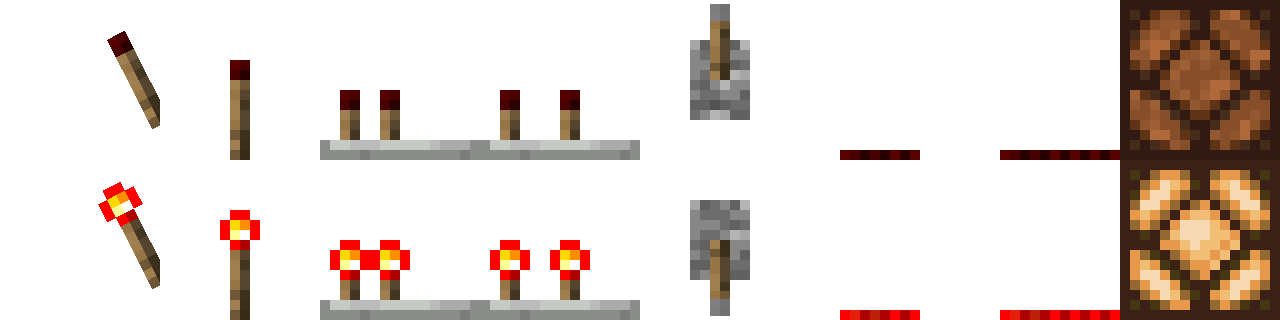
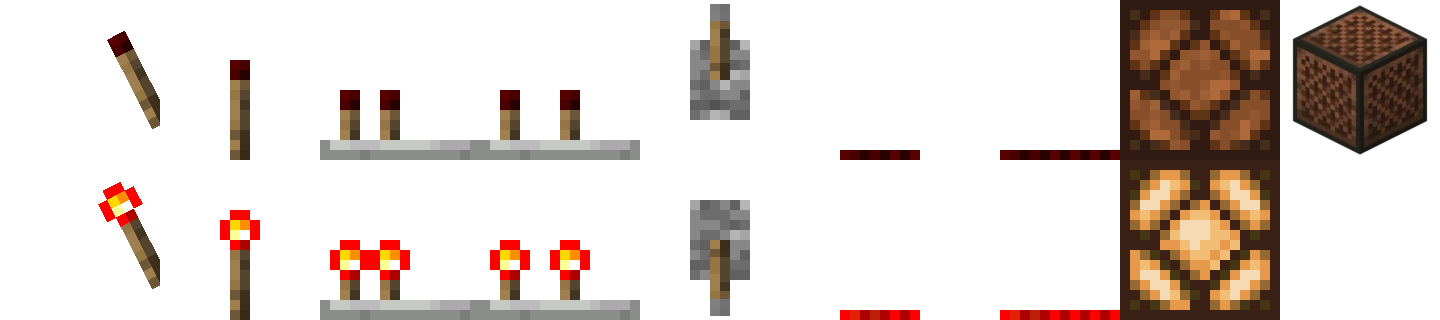
Optimize imports

diff --git a/src/main/java/me/melonboy10/midi2building/screenElements/GeneratorApplication.java b/src/main/java/me/melonboy10/midi2building/screenElements/GeneratorApplication.java
@@ -6,6 +6,7 @@ import javafx.application.Application;
 import javafx.geometry.HPos;
 import javafx.geometry.Insets;
 import javafx.geometry.VPos;
+import javafx.scene.Cursor;
 import javafx.scene.Scene;
 import javafx.scene.canvas.Canvas;
 import javafx.scene.effect.DropShadow;
@@ -20,6 +21,7 @@ import javafx.stage.FileChooser;
 import javafx.stage.Stage;
 import javafx.stage.StageStyle;
 import javafx.util.Duration;
+import me.melonboy10.midi2building.Main;
 import me.melonboy10.midi2building.conversion.Midi2BlockConversion;
 import me.melonboy10.midi2building.util.ResourceManager;
 
@@ -104,10 +106,12 @@ public class GeneratorApplication extends Application {
 
         // Makes the lever grow when moused over
         lever.addEventHandler(MouseEvent.MOUSE_ENTERED, mouseEvent -> {
-            getImageFromAtlas(lever,mousedLever,BlockAtlas.ZERO,lever.getIsOn());
+//            getImageFromAtlas(lever,mousedLever,BlockAtlas.ZERO,lever.getIsOn());
+            scene.setCursor(Cursor.HAND);
         });
         lever.addEventHandler(MouseEvent.MOUSE_EXITED, mouseEvent -> {
             getImageFromAtlas(lever,atlas,lever.getBlockAtlas(),lever.getIsOn());
+            scene.setCursor(Cursor.DEFAULT);
         });
 
         // Adds animations when the lever is clicked
@@ -115,18 +119,18 @@ public class GeneratorApplication extends Application {
             lever.toggle();
             int delay = lever.getIsOn() ? 100 : 0; // Yes, we made the redstone turn off faster than it turns on to match the game.
             Timeline timeline = new Timeline(
-                new KeyFrame(Duration.millis(0),   actionEvent -> lamp        .toggle()),
-                new KeyFrame(Duration.millis(100), actionEvent -> sideTorch   .toggle()),
-                new KeyFrame(Duration.millis(200), actionEvent -> dot         .toggle()),
-                new KeyFrame(Duration.millis(200), actionEvent -> pistonArm   .toggle()),
-                new KeyFrame(Duration.millis(200 + delay), actionEvent -> repeater1   .toggle()),
-                new KeyFrame(Duration.millis(300 + delay), actionEvent -> repeater2   .toggle()),
+                new KeyFrame(Duration.millis(0),   actionEvent -> lamp.toggle()),
+                new KeyFrame(Duration.millis(100), actionEvent -> sideTorch.toggle()),
+                new KeyFrame(Duration.millis(200), actionEvent -> dot.toggle()),
+                new KeyFrame(Duration.millis(200), actionEvent -> pistonArm.toggle()),
+                new KeyFrame(Duration.millis(200 + delay), actionEvent -> repeater1.toggle()),
+                new KeyFrame(Duration.millis(300 + delay), actionEvent -> repeater2.toggle()),
                 new KeyFrame(Duration.millis(400 + delay), actionEvent -> repeater_two.toggle()),
                 new KeyFrame(Duration.millis(500 + delay), actionEvent -> redstoneLine.toggle()),
-                new KeyFrame(Duration.millis(600 + delay), actionEvent -> bottomTorch .toggle()),
+                new KeyFrame(Duration.millis(600 + delay), actionEvent -> bottomTorch.toggle()),
                 new KeyFrame(Duration.millis(600 + delay), actionEvent -> repeater_two.toggle()),
                 new KeyFrame(Duration.millis(700 + delay), actionEvent -> redstoneLine.toggle()),
-                new KeyFrame(Duration.millis(800 + delay),actionEvent -> bottomTorch .toggle()));
+                new KeyFrame(Duration.millis(800 + delay),actionEvent -> bottomTorch.toggle()));
             timeline.play();
         });
 
@@ -199,6 +203,7 @@ public class GeneratorApplication extends Application {
             FileChooser fileChooser = new FileChooser();
             fileChooser.setTitle("Open Midi File");
             fileChooser.getExtensionFilters().addAll(new FileChooser.ExtensionFilter("Midi Files", "*.mid", "*.midi"));
+            fileChooser.setInitialDirectory(new File(new File(Main.class.getProtectionDomain().getCodeSource().getLocation().getFile()).getAbsoluteFile().getParentFile().getParentFile() + "/src/main/resources/defaultSongs"));
             File selectedFile = fileChooser.showOpenDialog(stage);
             if (selectedFile != null) {
                 try {

diff --git a/src/main/java/me/melonboy10/midi2building/conversion/MidiParser.java b/src/main/java/me/melonboy10/midi2building/conversion/MidiParser.java
@@ -1,12 +1,11 @@
 package me.melonboy10.midi2building.conversion;
 
-import me.melonboy10.midi2building.util.ResourceManager;
 import me.melonboy10.midi2building.util.SoundAtlas;
 
 import javax.sound.midi.*;
 import java.io.File;
 import java.io.IOException;
-import java.util.Collections;
+import java.util.ArrayList;
 import java.util.HashMap;
 
 public class MidiParser {
@@ -16,8 +15,9 @@ public class MidiParser {
 
     private File midiFile;
     private Sequence sequence;
-    private final HashMap<String, Integer> blockNumber = new HashMap<>();
-    private final HashMap<String, SoundAtlas> blockSound = new HashMap<>();
+    private final HashMap<String, Integer> noteCount = new HashMap<>();
+    private final HashMap<String, SoundAtlas> noteToSoundType = new HashMap<>();
+    private final ArrayList<Long> notes = new ArrayList<>();
 
     public MidiParser(File midiFile) throws InvalidMidiDataException, IOException {
         this.midiFile = midiFile;
@@ -26,21 +26,21 @@ public class MidiParser {
         for (Track track :  sequence.getTracks()) {
             for (int i = 0; i < track.size(); i++) {
                 MidiEvent event = track.get(i);
-//                System.out.print("@" + event.getTick() + " ");
                 MidiMessage message = event.getMessage();
                 if (message instanceof ShortMessage sm) {
 //                    System.out.print("Channel: " + sm.getChannel() + " ");
                     if (sm.getCommand() == NOTE_ON) {
+                        notes.add(event.getTick());
                         int key = sm.getData1();
                         int octave = (key / 12)-1;
                         int note = key % 12;
                         String noteName = octave + NOTE_NAMES[note];
 
-                        if (blockNumber.containsKey(noteName)) {
-                            blockNumber.put(noteName,blockNumber.get(noteName) + 1);
+                        if (noteCount.containsKey(noteName)) {
+                            noteCount.put(noteName, noteCount.get(noteName) + 1);
                         } else {
-                            blockNumber.put(noteName,1);
-                            blockSound.put(noteName, SoundAtlas.NULL);
+                            noteCount.put(noteName,1);
+                            noteToSoundType.put(noteName, SoundAtlas.NULL);
                         }
                     }
                 }
@@ -48,10 +48,10 @@ public class MidiParser {
         }
     }
 
-    public HashMap<String, Integer> getBlockNumber() {
-        return blockNumber;
+    public HashMap<String, Integer> getNoteCount() {
+        return noteCount;
     }
-    public HashMap<String, SoundAtlas> getBlockSound() {
-        return blockSound;
+    public HashMap<String, SoundAtlas> getNoteToSoundType() {
+        return noteToSoundType;
     }
 }

diff --git a/src/main/java/me/melonboy10/midi2building/screenElements/SelectSound.java b/src/main/java/me/melonboy10/midi2building/screenElements/SelectSound.java
@@ -21,18 +21,15 @@ import javafx.scene.text.Text;
 import javafx.stage.Modality;
 import javafx.stage.Stage;
 import javafx.stage.StageStyle;
-import me.melonboy10.midi2building.util.ResourceManager;
 import me.melonboy10.midi2building.util.SoundAtlas;
 
 import java.util.ArrayList;
-import java.util.Arrays;
 import java.util.List;
 import java.util.concurrent.atomic.AtomicReference;
 
 import static me.melonboy10.midi2building.screenElements.GeneratorApplication.conversion;
 import static me.melonboy10.midi2building.screenElements.GeneratorApplication.scale;
 import static me.melonboy10.midi2building.util.ResourceManager.*;
-import static me.melonboy10.midi2building.util.SoundAtlas.numSounds;
 
 public class SelectSound extends Stage {
     private static final int IMAGES_PER_ROW = 8;
@@ -146,7 +143,7 @@ public class SelectSound extends Stage {
 
         gridPane.add(slider,11,2);
 
-        int numRows = (int)(numSounds / 9) - 4;
+        int numRows = (int)(SoundAtlas.values().length / 9) - 4;
         sc = new ScrollBar();
         sc.setMin(0);
         sc.setMax(numRows);
@@ -218,7 +215,7 @@ public class SelectSound extends Stage {
                     soundSelector.getGraphicsContext2D().clearRect(0, 0, 100, 100);
                 });
                 soundSelector.addEventHandler(MouseEvent.MOUSE_CLICKED, mouseEvent -> {
-                    conversion.getMidiFile().getBlockSound().put(note, sound);
+                    conversion.getMidiFile().getNoteToSoundType().put(note, sound);
                     getImageFromAtlas(iconToChange, soundAtlas, sound);
                     this.close();
                 });

diff --git a/src/main/java/me/melonboy10/midi2building/screenElements/SelectBlocks.java b/src/main/java/me/melonboy10/midi2building/screenElements/SelectBlocks.java
@@ -19,7 +19,8 @@ import javafx.stage.Stage;
 import javafx.stage.StageStyle;
 import me.melonboy10.midi2building.util.SoundAtlas;
 
-import java.util.*;
+import java.util.ArrayList;
+import java.util.List;
 import java.util.concurrent.atomic.AtomicReference;
 
 import static me.melonboy10.midi2building.screenElements.GeneratorApplication.conversion;
@@ -233,7 +234,7 @@ public class SelectBlocks extends Stage {
 
             // The Block sound associated with the pitch
             Canvas soundIcon = new Canvas(18*scale,18*scale);
-            getImageFromAtlas(soundIcon, soundAtlas, conversion.getMidiFile().getBlockSound().getOrDefault(note, SoundAtlas.NULL));
+            getImageFromAtlas(soundIcon, soundAtlas, conversion.getMidiFile().getNoteToSoundType().getOrDefault(note, SoundAtlas.NULL));
             gridPane.add(soundIcon,column,row + 1);
             textNodes.add(soundIcon);
 
@@ -256,7 +257,7 @@ public class SelectBlocks extends Stage {
             gridPane.add(changeSound,column,row+1);
 
             // The number of times the note is played
-            Text noteNumber = conversion.getMidiFile().getBlockNumber().containsKey(note) ? new Text(String.valueOf(conversion.getMidiFile().getBlockNumber().get(note))) : new Text("0");
+            Text noteNumber = conversion.getMidiFile().getNoteCount().containsKey(note) ? new Text(String.valueOf(conversion.getMidiFile().getNoteCount().get(note))) : new Text("0");
             noteNumber.setFont(minecraftiaSign);
             noteNumber.setFill(Color.rgb(0, 0, 0)); // Pure Black
             gridPane.add(noteNumber, column, row+2);

diff --git a/src/main/java/me/melonboy10/midi2building/util/ResourceManager.java b/src/main/java/me/melonboy10/midi2building/util/ResourceManager.java
@@ -10,7 +10,10 @@ import javafx.stage.FileChooser;
 import javafx.stage.Stage;
 import me.melonboy10.midi2building.screenElements.ToggleableCanvas;
 
-import java.io.*;
+import java.io.File;
+import java.io.FileInputStream;
+import java.io.FileNotFoundException;
+import java.io.IOException;
 import java.util.ArrayList;
 import java.util.List;
 
@@ -19,8 +22,6 @@ import static me.melonboy10.midi2building.screenElements.GeneratorApplication.sc
 public class ResourceManager {
 
     public enum BlockAtlas {
-        NULL         (-1),
-        ZERO         (0),
         SIDE_TORCH   (0),
         BOTTOM_TORCH (1),
         REPEATER_ONE (2),
@@ -28,7 +29,8 @@ public class ResourceManager {
         LEVER        (4),
         REDSTONE_DOT (5),
         REDSTONE_LINE(6),
-        LAMP         (7);
+        LAMP         (7),
+        NOTE_BLOCK   (8);
 
         public final int column;
         BlockAtlas(int column) {

diff --git a/src/main/java/me/melonboy10/midi2building/screenElements/RichText.java b/src/main/java/me/melonboy10/midi2building/screenElements/RichText.java
@@ -1,0 +1,27 @@
+package me.melonboy10.midi2building.screenElements;
+
+import javafx.scene.effect.DropShadow;
+import javafx.scene.paint.Color;
+import javafx.scene.text.Text;
+import me.melonboy10.midi2building.util.ResourceManager;
+
+public class RichText extends Text {
+
+    DropShadow dropShadow;
+    enum MinecraftColors {}
+
+    public RichText(String text) {
+        super(text);
+        this.setFont(ResourceManager.minecraftia);
+        dropShadow = new DropShadow(0, ResourceManager.imageScale, ResourceManager.imageScale, Color.CORAL);
+
+
+    }
+
+    public RichText(double x, double y, String text) {
+        super(x, y, text);
+    }
+
+
+
+}

diff --git a/src/main/java/me/melonboy10/midi2building/conversion/Midi2BlockConversion.java b/src/main/java/me/melonboy10/midi2building/conversion/Midi2BlockConversion.java
@@ -3,12 +3,6 @@ package me.melonboy10.midi2building.conversion;
 import javax.sound.midi.InvalidMidiDataException;
 import java.io.File;
 import java.io.IOException;
-import java.util.ArrayList;
-import java.util.Collections;
-import java.util.HashMap;
-import java.util.List;
-
-import static me.melonboy10.midi2building.screenElements.GeneratorApplication.conversion;
 
 public class Midi2BlockConversion {
 

diff --git a/src/main/java/me/melonboy10/midi2building/screenElements/TranslatableBlock.java b/src/main/java/me/melonboy10/midi2building/screenElements/TranslatableBlock.java
@@ -6,7 +6,7 @@ import javafx.scene.image.Image;
 import javafx.util.Duration;
 
 import static me.melonboy10.midi2building.screenElements.GeneratorApplication.scale;
-import static me.melonboy10.midi2building.util.ResourceManager.*;
+import static me.melonboy10.midi2building.util.ResourceManager.imageScale;
 
 /**
  *

diff --git a/src/main/java/me/melonboy10/midi2building/util/SoundAtlas.java b/src/main/java/me/melonboy10/midi2building/util/SoundAtlas.java
@@ -104,6 +104,4 @@ public enum SoundAtlas {
         this.textureID = textureID;
         this.blocks = new ArrayList<>(List.of(block));
     }
-
-    public static final int numSounds = SoundAtlas.values().length;
 }
